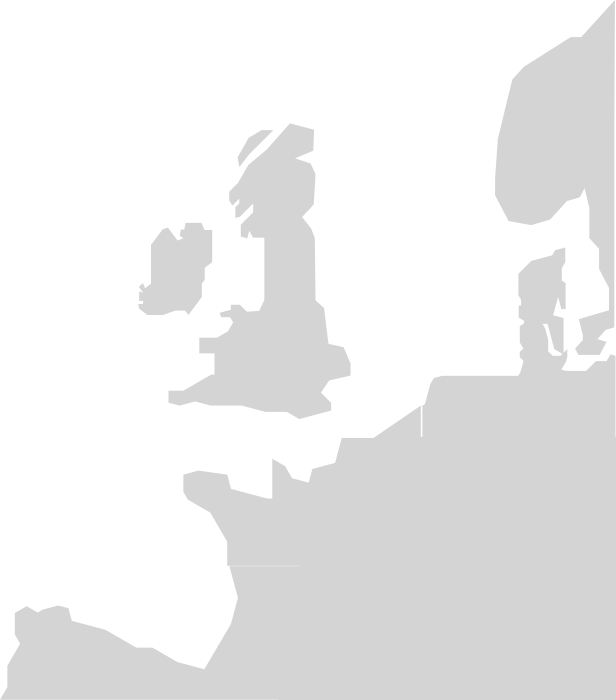
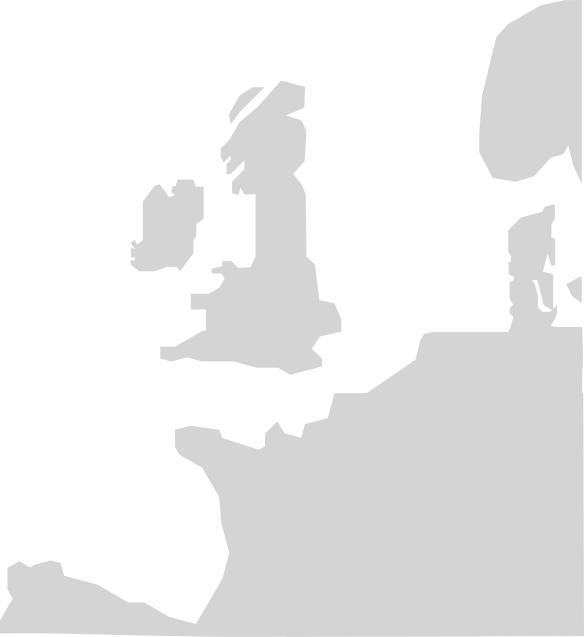
MOVIDAS TIO MOVIDAS

diff --git a/lib/vehicles/boat.js b/lib/vehicles/boat.js
@@ -75,7 +75,8 @@ window.boot.models = window.boot.models || {};
         gravity: 2,
         opacity: 1,
         randomOpacity: 0,
-        tint: tint
+        tint: tint,
+        before: this.selectedHalo
       });
 
     },
@@ -182,8 +183,8 @@ window.boot.models = window.boot.models || {};
       this.view.height = size.y;
       this.view.alpha = this.getAlphaByDistance(distance);
       if (this.selectedHalo) {
-        this.selectedHalo.width = this.view.width + 2;
-        this.selectedHalo.height = this.view.height + 2;
+        this.selectedHalo.width = Math.floor(this.view.width * 0.55);
+        this.selectedHalo.height = Math.floor(this.view.width * 0.55);
       }
       var positionY = offset + this.getViewPositionByDistance(distance, maxY);
       this.view.y = positionY;
@@ -193,14 +194,14 @@ window.boot.models = window.boot.models || {};
     },
     adjustUI: function() {
       if (this.selectedHalo) {
-        this.selectedHalo.x = this.view.x - 1;
-        this.selectedHalo.y = this.view.y - 1;
+        this.selectedHalo.x = Math.floor(this.view.x + (this.view.width - this.selectedHalo.width) / 2);
+        this.selectedHalo.y = Math.floor(this.view.y + (this.view.height - this.selectedHalo.height) / 2);
       }
     },
     select: function() {
-      this.selectedHalo = new PIXI.Sprite.fromImage('assets/ui/selected.png');
-      this.selectedHalo.width = this.view.width + 2;
-      this.selectedHalo.height = this.view.height + 2;
+      this.selectedHalo = new PIXI.Sprite.fromImage('assets/ui/target.png');
+      this.selectedHalo.width = Math.floor(this.view.width * 0.55);
+      this.selectedHalo.height = Math.floor(this.view.width * 0.55);
       this.stage.addVisualEntity(this.selectedHalo);
       this.adjustUI();
     },

diff --git a/lib/ui/mapView/mapLayout.js b/lib/ui/mapView/mapLayout.js
@@ -23,13 +23,15 @@ window.boot.ui = window.boot.ui || {};
     addBackground: function() {
       var width = boot.config.width;
       var height = boot.config.height;
-      this.backgroundColor = this.stage.addBackground(50, 50, width - 100, height - 100, 0x0077BB, 1, [], null, false);
+      this.backgroundTable = this.stage.addBackground(0, 0, width, height, 0x93827F, 1, [], null, false);
+
+      this.backgroundColor = this.stage.addBackground(50, 50, width - 100, height - 100, 0x0060DD, 1, [], null, false);
 
       this.backgroundMap = new PIXI.Sprite.fromImage(this.mapImage);
-      this.backgroundMap.x = Math.floor((width - 100) / 2.05);
-      this.backgroundMap.y = 40;
-      this.backgroundMap.height = (height - 100) / 1.00;
-      this.backgroundMap.width = (width - 100) / 1.80;
+      this.backgroundMap.x = Math.floor((width - 100) / 2);
+      this.backgroundMap.y = 65;
+      this.backgroundMap.height = (height - 100) / 1.06;
+      this.backgroundMap.width = (width - 100) / 1.92;
       this.backgroundMap.tint = 0xFFFFFF;
       this.stage.addVisualEntity(this.backgroundMap);
     },

diff --git a/lib/vehicles/earlyBattleship.js b/lib/vehicles/earlyBattleship.js
@@ -73,7 +73,7 @@ window.boot.models = window.boot.models || {};
       if (this.counter % 90 === 0 && this.hullStrength < 90) {
         this.showDamage();
       }
-      if (this.counter % 10 === 0) {
+      if (this.counter % 20 === 0) {
         this.wavesAround(0x006699, this.model.sector.weather.tint);
       }
     },
@@ -164,6 +164,7 @@ window.boot.models = window.boot.models || {};
       });
     },
     sink: function() {
+      this.destroyed = true;
       this.model.destroyed = true;
       this.timeSinking = this.timeSinking ? this.timeSinking++ : 1;
       if (!this.mask) {

diff --git a/lib/sectors/deepSea.js b/lib/sectors/deepSea.js
@@ -7,7 +7,7 @@ window.boot.models = window.boot.models || {};
   };
   deepSea.prototype = {
     type: 'sea',
-    baseColor: 0x000000
+    baseColor: 0xFFFFFF
   };
 
   window.boot.models.DeepSeaSector = deepSea;
